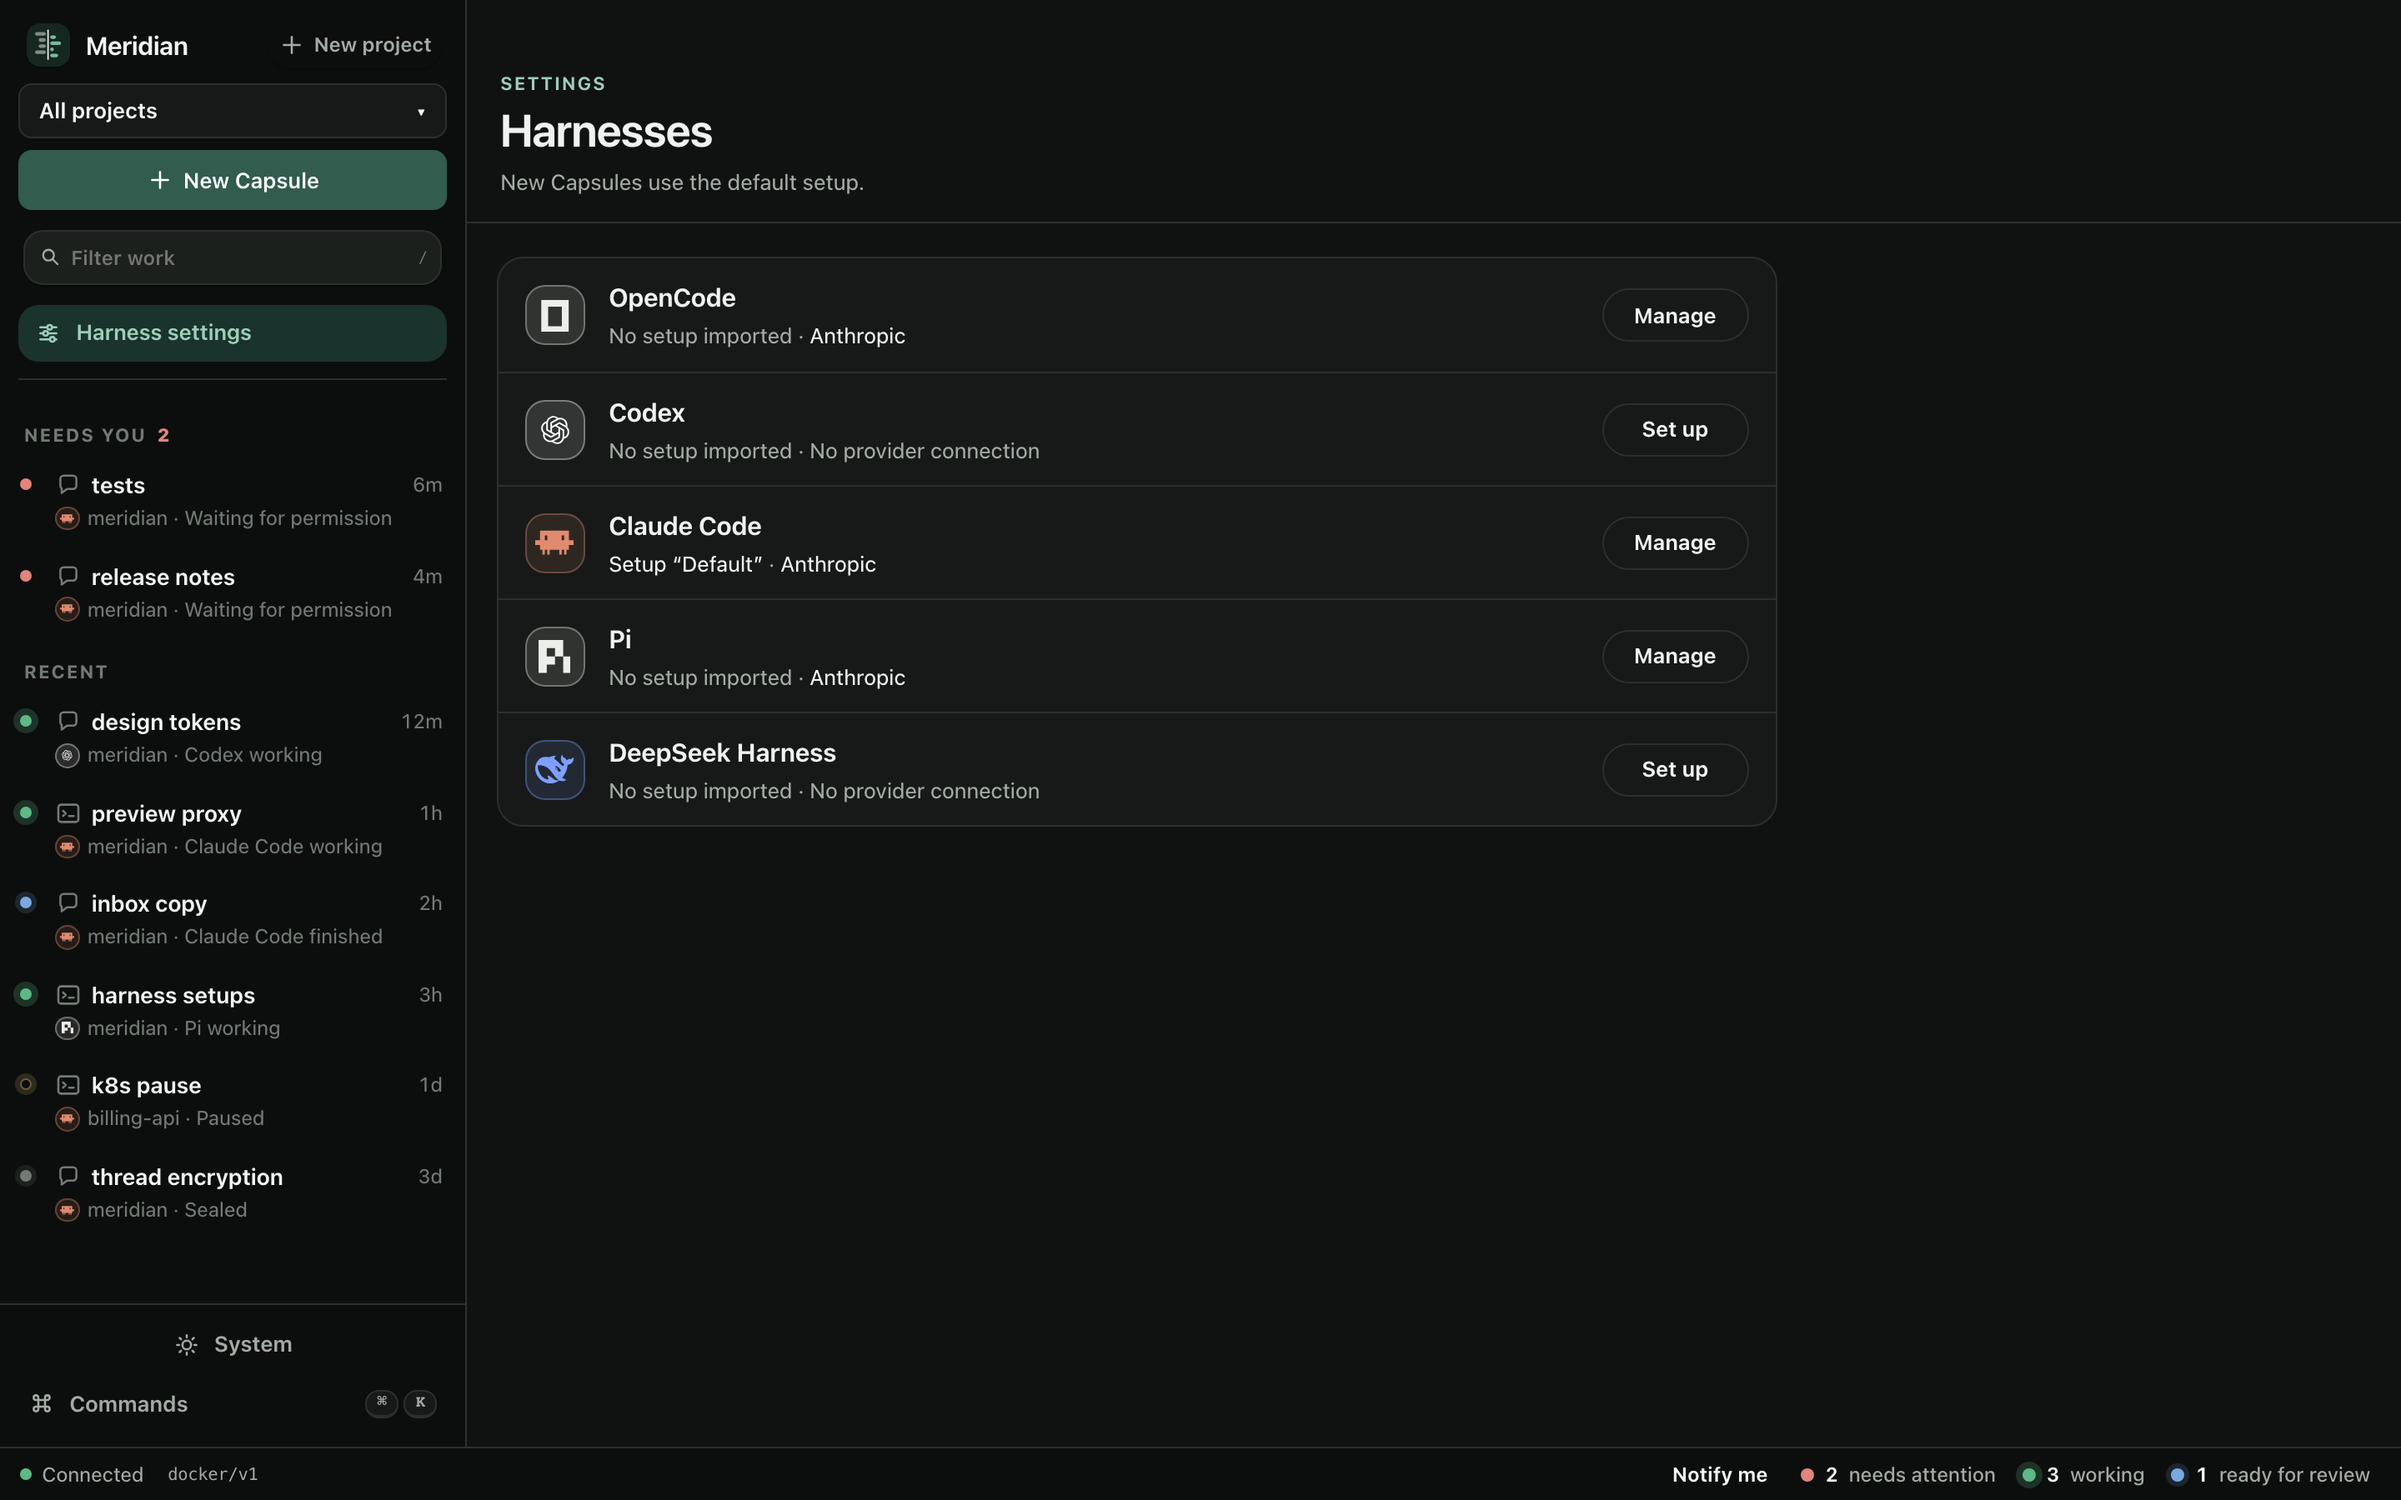
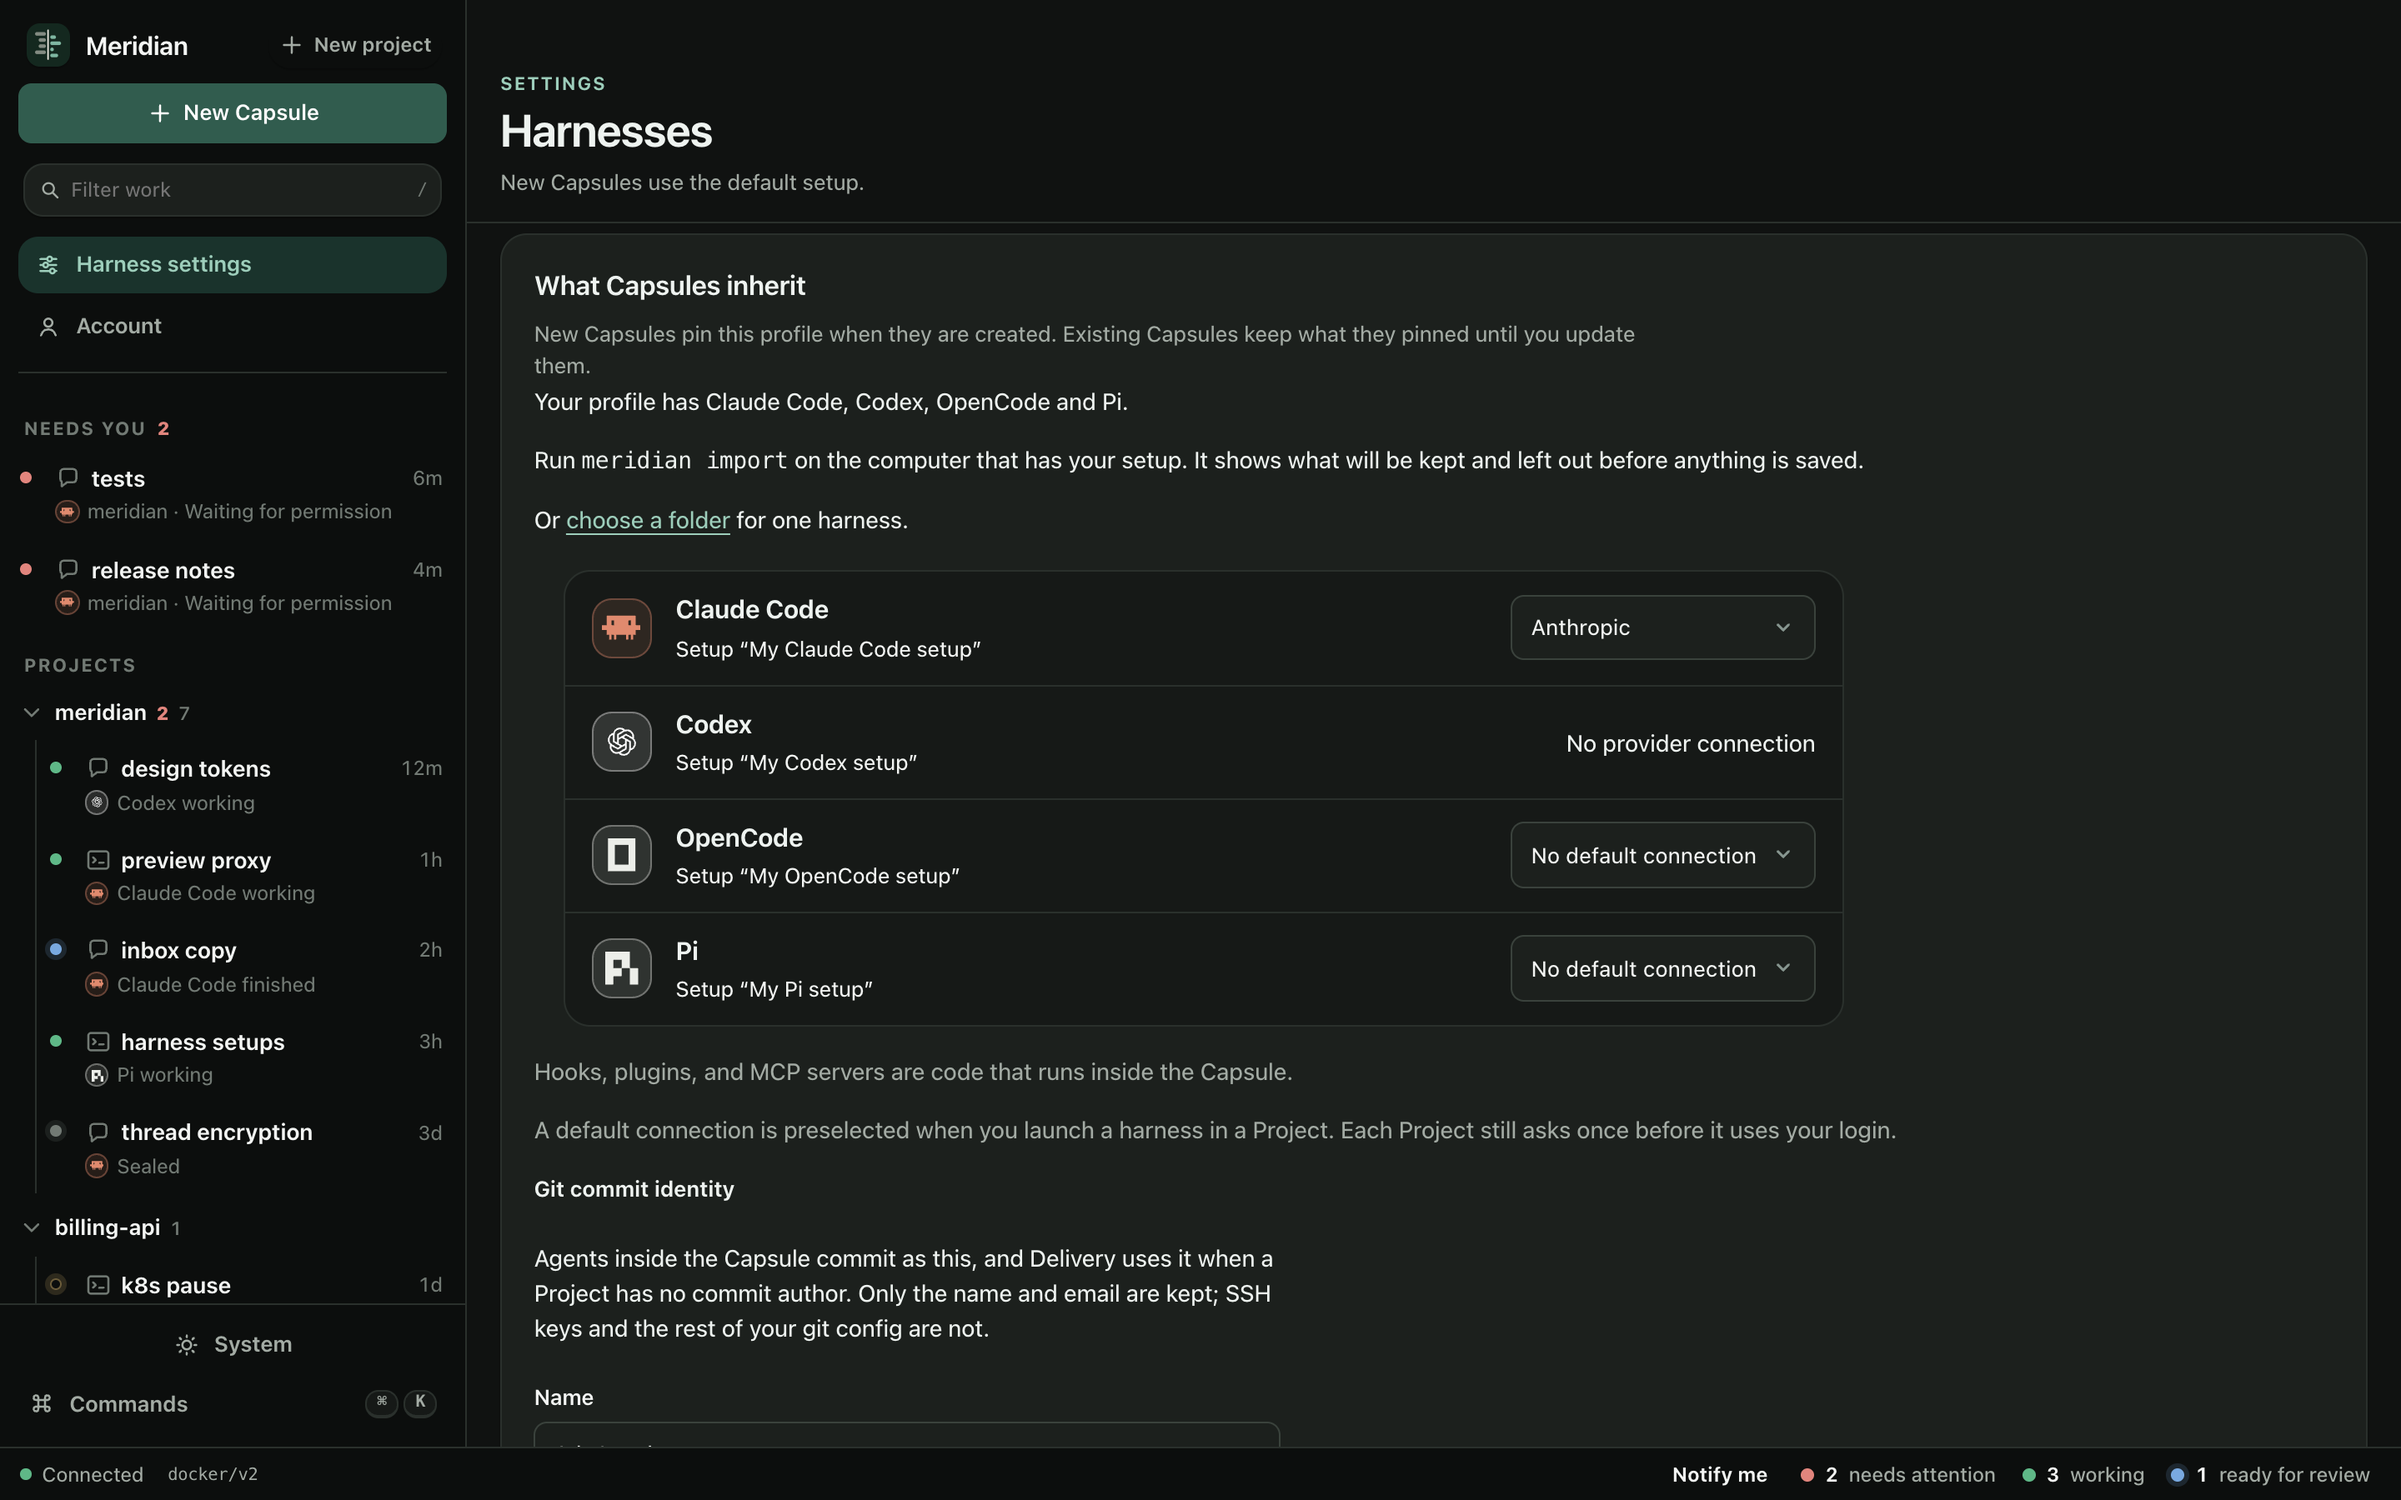
docs: refresh the README and its screenshots
Center the logo, name, tagline, and badges, and add section links under
them. Describe workstation profiles and team mode, update the security
model for team installations, say that loopback browsers sign in on their
own, and pin the version examples to v0.9.0.

Retake the home, Thread, and Harness settings screenshots from the current
UI, and add the desktop import window and team mode members.

diff --git a/README.md b/README.md
@@ -1,4 +1,6 @@
-<img src="docs/assets/meridian-mark.svg" width="72" alt="Meridian logo">
+<div align="center">
+
+<img src="docs/assets/meridian-mark.svg" width="96" alt="Meridian logo">
 
 # Meridian
 
@@ -9,6 +11,10 @@ review and ship what they built.**
 [![CI](https://github.com/OrlojHQ/meridian/actions/workflows/ci.yml/badge.svg)](https://github.com/OrlojHQ/meridian/actions/workflows/ci.yml)
 [![Release](https://img.shields.io/github/v/release/OrlojHQ/meridian?include_prereleases&sort=semver)](https://github.com/OrlojHQ/meridian/releases)
 [![License](https://img.shields.io/badge/license-Apache--2.0-blue)](LICENSE)
+
+[Quick start](#quick-start) · [What you get](#what-you-get) · [Security model](#security-model) · [Documentation](#documentation)
+
+</div>
 
 Coding agents do their best work when you let them run: install packages, run
 the test suite, rewrite half the repo, try three approaches at once. That is
@@ -23,9 +29,10 @@ review the diff, and open a pull request when you like the result. When you
 don't, throw it away.
 
 It runs on your machine or your cluster, with the agents and models you
-already pay for, or your own model server.
+already pay for, or your own model server. Use it alone, or share one
+installation with your team.
 
-![The Meridian browser workspace: start a task, with Capsules that need you listed first](docs/assets/screenshots/ui-home.png)
+![The Meridian browser workspace: Capsules that need you are listed first, then every Project's Capsules](docs/assets/screenshots/ui-home.png)
 
 ## What you get
 
@@ -53,7 +60,7 @@ answer, and steer from the web UI.
 
 Transcripts are encrypted at rest.
 
-![A Thread waiting for permission to run a shell command, with the Capsule's diff beside it](docs/assets/screenshots/ui-thread.png)
+![A Thread waiting for permission to push release notes, with the Capsule's CHANGELOG diff beside it](docs/assets/screenshots/ui-thread.png)
 
 ### A lead agent with subagents
 
@@ -72,8 +79,6 @@ instructions, waits for their reports, and reads their diffs.
 
 - **Five official agents**: Claude Code, Codex, OpenCode, Pi, and DeepSeek
   Harness, each pinned by checksum and signed on every release.
-- **Your existing setup**: import your configuration, skills, and plugins with
-  **Import my setup**. Login caches and history stay behind.
 - **Your models**: sign in to the agent as you do today, add an OpenAI or
   Anthropic API key once, or point Meridian at your own server: vLLM, Ollama,
   LiteLLM, or any OpenAI- or Anthropic-compatible endpoint, with the reasoning
@@ -82,7 +87,44 @@ instructions, waits for their reports, and reads their diffs.
   [Agent Client Protocol](https://agentclientprotocol.com) agent can also run
   as a browser Thread through the built-in `acp` adapter.
 
-![Harness settings listing OpenCode, Codex, Claude Code, Pi, and DeepSeek Harness](docs/assets/screenshots/ui-harnesses.png)
+### Your setup, in every Capsule
+
+Import your computer once and every new Capsule starts with the agent setup
+you already tuned: settings, `AGENTS.md` and `CLAUDE.md`, skills, slash
+commands, agent definitions, prompts, and MCP servers that can run in a
+container, plus your git name and email.
+
+- **One review, then one save.** `meridian import` on your computer, or
+  **Review this computer's setup** in the desktop app, shows what will be
+  kept, what is left out, and why, before anything is uploaded.
+- **Logins never travel.** `auth.json`, OAuth tokens, API keys, and SSH keys
+  are left out on purpose. Model access comes from a provider connection,
+  whose key stays in the daemon, and laptop-only permission settings are
+  stripped.
+- **A snapshot, not a live link.** Each Capsule pins the profile it started
+  with. When your setup changes, the desktop app offers to review it again;
+  you choose when a Capsule updates.
+
+<p align="center">
+  <img src="docs/assets/screenshots/desktop-import.png" width="420" alt="The desktop app's import window: Claude Code and Codex found, files kept and left out, the git identity, and Save">
+</p>
+
+![Harness settings: what new Capsules inherit, with a setup and default connection per harness](docs/assets/screenshots/ui-harnesses.png)
+
+### One installation for your team
+
+Turn on team mode and teammates sign in through your identity provider (OIDC:
+Okta, Entra ID, Google, Keycloak, Authentik, Dex). Every Project, Capsule,
+secret, setup, and model login belongs to one person and is private by
+default.
+
+- `meridian login` signs the CLI and TUI in; personal access tokens can be
+  read-only and expire.
+- Admins add and disable members, sign them out everywhere, and transfer a
+  departed teammate's work.
+- An append-only audit log records who did what, without prompts or secrets.
+
+![Account settings in team mode: members, roles, and sessions](docs/assets/screenshots/ui-team.png)
 
 ### Snapshot, fork, and rewind
 
@@ -151,8 +193,8 @@ carries this script as `install-desktop.sh`, signed and listed in
 Pin a version, or install only the `meridian` and `meridiand` binaries:
 
 ```console
-curl -fsSL https://raw.githubusercontent.com/OrlojHQ/meridian/main/scripts/install-desktop.sh | sh -s -- --version 0.6.0
-curl -fsSL https://raw.githubusercontent.com/OrlojHQ/meridian/main/scripts/install-desktop.sh | sh -s -- --cli --version 0.6.0
+curl -fsSL https://raw.githubusercontent.com/OrlojHQ/meridian/main/scripts/install-desktop.sh | sh -s -- --version 0.9.0
+curl -fsSL https://raw.githubusercontent.com/OrlojHQ/meridian/main/scripts/install-desktop.sh | sh -s -- --cli --version 0.9.0
 ```
 
 The window checks for a newer release when it opens and every four hours.
@@ -191,7 +233,7 @@ Download the archive for your platform from
 `arm64` or `amd64`) and [verify it](docs/operations.md#verify-a-release):
 
 ```console
-VERSION=0.4.1
+VERSION=0.9.0
 curl -fsSLO "https://github.com/OrlojHQ/meridian/releases/download/v${VERSION}/meridian_${VERSION}_macOS_arm64.tar.gz"
 tar -xzf "meridian_${VERSION}_macOS_arm64.tar.gz" meridian meridiand
 ```
@@ -208,10 +250,14 @@ the Claude Code image, starts a Capsule, and hands you its terminal. Sign in
 there once; Threads in that Capsule use the same login.
 
 Then open the browser workspace at
-[http://127.0.0.1:8080/ui/](http://127.0.0.1:8080/ui/). It asks once for the
+[http://127.0.0.1:8080/ui/](http://127.0.0.1:8080/ui/). On this computer it
+signs you in on its own. From another machine it asks once for the
 installation token, which `meridiand` wrote to
 `~/Library/Application Support/meridian/api-auth/installation.token` on macOS
 or `~/.config/meridian/api-auth/installation.token` on Linux.
+
+To bring your agent setup along, run `meridian import` and review what it
+finds before you save.
 
 Swap `--harness claude` for `codex`, `opencode`, or `pi`.
 
@@ -327,7 +373,10 @@ Meridian credential.
 Meridian treats repositories, agent output, terminals, and Capsule processes as
 hostile.
 
-- The API listens on loopback by default and requires an installation token.
+- The API listens on loopback by default and requires an installation token,
+  or, in team mode, a member's own sign-in session or personal access token.
+- In team mode every object has one owner, and one member's API calls cannot
+  read or change another member's work.
 - Only `meridiand` touches the Docker socket; Capsules never get it, host
   paths, or control-plane credentials.
 - Secrets and transcripts are encrypted at rest, and secrets are scoped to a
@@ -336,10 +385,13 @@ hostile.
 - Subagents ask you, not their lead, for permission, and a lead can propose a
   pull request but never approve one.
 
-Meridian is built for **one trusted person** running agents on their own
-machine or cluster. Docker containers are not a boundary between mutually
-hostile tenants, so do not host Meridian for untrusted users. Read the
-[threat model](docs/threat-model.md) and [security policy](SECURITY.md).
+Meridian is built for **one person or one team of trusted teammates**
+running agents on their own machines or cluster. Team mode keeps teammates'
+work private through the API, but their Capsules still share the provider's
+isolation: with Docker that is one kernel. Containers are not a boundary
+between mutually hostile tenants, so do not host Meridian for untrusted
+users. Read the [threat model](docs/threat-model.md) and
+[security policy](SECURITY.md).
 
 ## Status
 
@@ -353,8 +405,8 @@ releases; see the [changelog](CHANGELOG.md).
   [leads and subagents](docs/cli-and-tui.md#leads-and-subagents), the board,
   sync, ship
 - [Browser workspace and previews](docs/review-ui.md)
-- [Bring your harness setup](docs/personal-harness-setups.md): imports, API
-  keys, and self-hosted models
+- [Bring your harness setup](docs/personal-harness-setups.md): importing your
+  computer, API keys, and self-hosted models
 - [Prepared project environments](docs/prepared-environments.md)
 - [Moments and lineage](docs/moments-and-lineage.md): capture, shard, rewind,
   seal
@@ -366,6 +418,8 @@ releases; see the [changelog](CHANGELOG.md).
 
 **Operate**
 - [Operations](docs/operations.md): install, verify, back up, Compose, Helm
+- [Team mode](docs/operations.md#team-mode): OIDC sign-in, members, and the
+  audit log
 - [Docker development](docs/docker-development.md)
 - [Kubernetes Agent Sandbox](docs/kubernetes-agentsandbox.md)
 - [Threat model](docs/threat-model.md)
